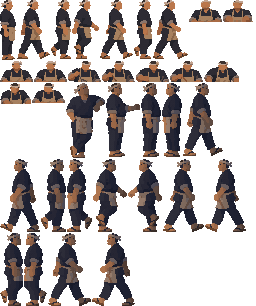
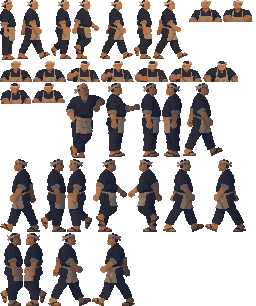
style(street): add detail to the oden master's face
Each feature of the sheet drawing is put back one or two pixels where
it places it (eye, eyebrow, mouth, nose wing, jaw beard), the same in
all images of a pose so nothing jumps. At the door (11 px head): one
pixel per eye, a two-pixel smile in the rain, one pixel of eyebrow.

Changed region(s): [[0.0, 0.2059, 0.9375, 0.2941]]

diff --git a/assets/street.js b/assets/street.js
@@ -6545,8 +6545,8 @@
   // (standing, then leaning on the frame, three quarters, his face up, then standing), steps back, slides it shut and goes
   // back. Drawn a scene pixel at a time (crisp), on the glass only (its lattice and the window's mullion before him), the
   // leaf's wooden half before his legs; the street's night multiply on him as on the room. Reduced motion: he never comes
-  const OMF = {"A":{"stand":[0,0,16,60,6,59],"w1":[17,0,33,59,14,58],"w2":[51,0,20,59,11,58],"w3":[72,0,27,59,11,58],"w4":[100,0,33,59,15,58],"w5":[134,0,18,59,9,58],"w6":[153,0,35,59,15,58],"laugh":[189,0,33,22,16,60],"offer":[223,0,30,22,14,60],"happy":[0,61,33,21,16,59],"idle":[34,61,33,21,16,59],"ladle":[68,61,33,21,17,59],"lift":[102,61,33,21,16,59],"pick":[136,61,33,21,17,59],"serve":[170,61,33,21,17,59],"wipe":[204,61,35,21,18,59],"wipe2":[0,83,31,21,14,59],"nod":[32,83,33,20,16,58],"z":47.1,"floor":659.59,"from":411.97,"at":473.42,"v":29.72},"D":{"stand2":[66,83,39,75,14,74],"grab":[106,83,34,74,8,73],"stand":[141,83,20,74,8,73],"stand_m":[162,83,20,74,11,73],"w1":[183,83,40,73,17,72],"w1_m":[0,159,40,73,22,72],"w2":[41,159,25,73,14,72],"w2_m":[67,159,25,73,10,72],"w3":[93,159,34,73,14,72],"w3_m":[128,159,34,73,19,72],"w4":[163,159,41,73,19,72],"w4_m":[205,159,41,73,21,72],"w5":[0,233,23,73,12,72],"w5_m":[24,233,23,73,10,72],"w6":[48,233,43,73,19,72],"w6_m":[92,233,43,73,23,72],"z":38.2,"floor":669.97,"from":391.12,"at":431.46,"look":445.29,"v":36.65},"step":0.17,"walk":["w1","w2","w3","w4","w5","w6"]};
-  const ODI = new Image(), OMI = new Image(); ODI.src = 'assets/oden_door.webp?v=2'; OMI.src = 'assets/oden_master.webp?v=3';
+  const OMF = {"A":{"stand":[0,0,16,60,6,59],"w1":[17,0,33,59,14,58],"w2":[51,0,20,59,11,58],"w3":[72,0,27,59,11,58],"w4":[100,0,33,59,15,58],"w5":[134,0,18,59,9,58],"w6":[153,0,35,59,15,58],"laugh":[189,0,33,22,16,60],"offer":[223,0,30,22,14,60],"happy":[0,61,32,21,15,59],"idle":[33,61,33,21,16,59],"ladle":[67,61,33,21,17,59],"lift":[101,61,33,21,16,59],"pick":[135,61,33,21,17,59],"serve":[169,61,33,21,17,59],"wipe":[203,61,35,21,18,59],"wipe2":[0,83,31,21,14,59],"nod":[32,83,33,20,16,58],"z":47.1,"floor":659.59,"from":411.97,"at":473.42,"v":29.72},"D":{"stand2":[66,83,39,75,14,74],"grab":[106,83,34,74,8,73],"stand":[141,83,20,74,8,73],"stand_m":[162,83,20,74,11,73],"w1":[183,83,40,73,17,72],"w1_m":[0,159,40,73,22,72],"w2":[41,159,25,73,14,72],"w2_m":[67,159,25,73,10,72],"w3":[93,159,34,73,14,72],"w3_m":[128,159,34,73,19,72],"w4":[163,159,41,73,19,72],"w4_m":[205,159,41,73,21,72],"w5":[0,233,23,73,12,72],"w5_m":[24,233,23,73,10,72],"w6":[48,233,43,73,19,72],"w6_m":[92,233,43,73,23,72],"z":38.2,"floor":669.97,"from":391.12,"at":431.46,"look":445.29,"v":36.65},"step":0.17,"walk":["w1","w2","w3","w4","w5","w6"]};
+  const ODI = new Image(), OMI = new Image(); ODI.src = 'assets/oden_door.webp?v=2'; OMI.src = 'assets/oden_master.webp?v=4';
   const ODOOR = (function () {                   // (drawn in one canvas over ODM.box, shown by two: the door's, the window's)
     const mk = (b, show) => {
       const c = document.createElement('canvas'); c.width = b[2]; c.height = b[3];

diff --git a/tools/oden_master.py b/tools/oden_master.py
@@ -33,11 +33,16 @@ qui penche ne le fait pas descendre). Ce qui est sous CUT de haut s'en va (le co
 le verre, 1,40 m au plus bas) ; ce qu'il tient reste (les baguettes, le daikon, la louche, l'assiette).
 
 L'image découpée : ce qui s'écarte du blanc (le halo clair du bord dehors), ses trous bouchés, la plus grande pièce ; sa
-couleur prise sur le dedans (deux pixels de la planche sous le bord : pas de liseré blanc). Le visage : sous 10 px de tête
-aucun trait, de 10 à 15 un pixel par œil (les règles du grain de la maison) ; tout ce qui n'est pas de la peau dans le visage
-(les yeux, les sourcils, la barbe jusqu'au bord du menton, la bouche) y est repeint de la peau voisine, et à la porte (sa tête
-de 11 px) un pixel sombre à la place de chaque œil (eyes_of). Les plis sombres des mains plus petits qu'un pixel de la rue (les
-doigts d'un poing) : repeints de leur peau (no_specks), ce seraient des trous.
+couleur prise sur le dedans (deux pixels de la planche sous le bord : pas de liseré blanc). Le visage : tout ce qui, dans la
+peau du visage, n'en est pas (les yeux, les sourcils, la barbe jusqu'au bord du menton, la bouche ; de face, les cheveux des
+tempes sous le bandeau, qui d'un seul côté se liraient comme un œil) est repeint de la peau voisine, puis chaque trait du dessin
+(traits : son œil, son sourcil, sa bouche, l'aile de son nez, la barbe de sa mâchoire) remis d'un ou deux pixels là où la planche
+le met (features), à la même place dans toutes les images d'une même pose (steady : de profil, sous le haut du visage et en
+retrait de son bout ; de face, de part et d'autre de son milieu), dans ses couleurs, un peu plus sombre que la peau où il tombe
+(TONE). À la porte (11 px de tête) : un pixel par œil, une courbe de deux s'il est content (appuyé au cadre, le nez levé), un
+pixel de sourcil sous le bandeau, la bouche (un sourire de deux pixels de trois quarts), l'ombre du nez de son côté sombre, un
+ou deux pixels de barbe sur la mâchoire ; à la marmite (9 px) seulement l'ombre des sourcils sous le bandeau. Les plis sombres
+des mains plus petits qu'un pixel de la rue (les doigts d'un poing) : repeints de leur peau (no_specks), ce seraient des trous.
 
 Réduction à la taille de chaque place (F / Z px par mètre) : chaque pixel prend la part de la planche qu'il couvre (une
 boîte exacte), plein dès la moitié couverte (ni halo ni bord flou) ; sa couleur, la moyenne des pixels de la planche les plus
@@ -100,7 +105,6 @@ ROWS = {'e': (((0, 550), ('stand', 'grab', 'stand2'), 1.0, 84.0),
 CUT = 1.3                             # (au comptoir : rien de lui sous tant de haut, le comptoir et ce qui est dessus ; la planche met
                                       #  son comptoir à 1,25 m, la maquette à 1 m)
 INK, HALO = 705, 740                  # (la somme R + G + B : sous INK, une image ; sous HALO, la figure ; au-dessus, le blanc et son halo)
-FACE_PX = (10, 15)                    # (une tête de moins de 10 px : aucun trait ; jusqu'à 15 : un pixel par œil)
 
 
 def classes(rgb):
@@ -135,7 +139,7 @@ def frames():
                 seed = nd.binary_dilation(lab[by0:by1, bx0:bx1] == l, iterations=2)
                 m = np.isin(ml, np.unique(ml[seed & m]))
                 m = nd.binary_fill_holes(m)
-                out[name] = dict(sheet=key, rgb=rgb[by0:by1, bx0:bx1].copy(), m=m, x0=bx0, y0=by0, rk=rk, head=head,
+                out[name] = dict(name=name, sheet=key, rgb=rgb[by0:by1, bx0:bx1].copy(), m=m, x0=bx0, y0=by0, rk=rk, head=head,
                                  row0=names[0], frontal=key == 'c')
     return out
 
@@ -183,30 +187,68 @@ def clean(F):
 
 
 def face(f):
-    """le visage sans traits : ce qui, dans la peau du visage, n'en est pas (les yeux, les sourcils, la barbe, la bouche) repeint
-    de la peau la plus proche ; les yeux notés (leurs centres, px de l'image) pour la porte"""
+    """le visage : ce qui, dans la peau du visage, n'en est pas (les yeux, les sourcils, la barbe, la bouche, de face les cheveux
+    des tempes sous le bandeau) repeint de la peau la plus proche ; chaque trait du dessin noté par sa sorte (traits : yeux,
+    sourcils, bouche, nez, mâchoire ; f['fk'] : son numéro sur chaque pixel, f['fkind'] : sa sorte), pour en poser un pixel à sa place"""
     rgb, m = f['rgb'], f['m']
     skin, navy, _ = classes(rgb)
     chin = int(round(f['chin'])) + 2
     hz = np.zeros_like(m); hz[:chin] = True
     sk = biggest(skin & m & hz & nd.binary_erosion(m, iterations=3))      # (la peau du visage : la plus grande pièce de peau sur le menton)
     zone = nd.binary_fill_holes(nd.binary_closing(sk, np.ones((7, 7)), iterations=2)) & m & hz
-    R, B = rgb[..., 0], rgb[..., 2]
-    beard = m & hz & ~skin & ~navy & (R - B > 18) & (rgb @ LUM < 150) & nd.binary_dilation(sk, iterations=4)   # (la barbe au bord du
-    feat = (zone & ~skin) | beard                                                                            #  menton, hors du visage)
+    R, G, B = (rgb[..., c] for c in range(3))
     L = rgb @ LUM
-    lab, n = nd.label(feat & (L < 110), np.ones((3, 3)))
-    eyes = []
-    for i in range(n):
-        c = lab == i + 1; k = int(c.sum())
-        if k < 12: continue
-        ys, xs = np.where(c)
-        eyes.append(dict(y=float(ys.mean()), x=float(xs.mean()), n=k, w=int(xs.max() - xs.min() + 1), h=int(ys.max() - ys.min() + 1),
-                         L=float(L[c].mean())))
-    f['feat'] = eyes
+    beard = m & hz & ~skin & ~navy & (R - B > 18) & (L < 150) & nd.binary_dilation(sk, iterations=4)   # (la barbe au bord du menton,
+    feat = (zone & ~skin) | beard                                                                       #  hors du visage)
+    if f['frontal']:                                                        # (de face, les cheveux des tempes sous le bandeau : à 9 px
+        band = m & hz & (np.abs(R - B) < 30) & (L > 150)                    #  de tête, un point sombre d'un seul côté se lit comme un œil)
+        low = np.where(band.any(0), band.shape[0] - np.argmax(band[::-1], 0), 0)[None, :]
+        xs = np.where(sk.any(0))[0]
+        side = np.zeros_like(m); side[:, max(0, xs.min() - 6):xs.max() + 7] = True
+        feat |= m & hz & side & (L < 110) & (np.abs(R - B) < 30) & (np.arange(m.shape[0])[:, None] >= low) & (low > 0)
+    feat &= ~nd.binary_dilation(navy, iterations=2)
+    f['fk'], f['fkind'] = traits(f, feat, zone, L)
     idx = nd.distance_transform_edt(~sk, return_distances=False, return_indices=True)
     rgb[feat] = rgb[idx[0][feat], idx[1][feat]]
     f['face'] = zone
+
+
+def traits(f, feat, zone, L):
+    """les traits du dessin, chacun d'un seul tenant, rangés par leur place dans le visage (rx de l'arrière ou de la gauche à
+    l'avant ou la droite, ry du haut sous le bandeau au menton ; n, leur taille ramenée à la planche en entier) : un œil, sombre,
+    petit, au milieu du haut ; son sourcil juste au-dessus ; la bouche, large et basse, devant (de profil, de trois quarts) ou au
+    milieu (de face) ; le nez de profil, au bout du visage entre l'œil et la bouche ; la mâchoire, la barbe du bas du visage"""
+    ys, xs = np.where(zone)
+    y0, y1, x0, x1 = ys.min(), ys.max(), xs.min(), xs.max()
+    lab, n = nd.label(feat, np.ones((3, 3)))
+    C = []
+    for i in range(n):
+        c = lab == i + 1
+        yy, xx = np.where(c)
+        C.append(dict(i=i + 1, rx=(xx.mean() - x0) / max(1, x1 - x0), ry=(yy.mean() - y0) / max(1, y1 - y0), n=c.sum() / f['rk'] ** 2,
+                      w=xx.max() - xx.min() + 1, h=yy.max() - yy.min() + 1, L=L[c].mean(), Lq=np.percentile(L[c], 20)))
+    ear = lambda c: c['h'] > 1.3 * c['w'] or (f['frontal'] and abs(c['rx'] - 0.5) > 0.36)
+    cand = [c for c in C if 0.15 <= c['ry'] <= 0.55 and 12 <= c['n'] <= 120 and not ear(c) and c['Lq'] < 95 and (f['frontal'] or c['rx'] > 0.45)]
+    under = lambda a, b: 0.06 < b['ry'] - a['ry'] < 0.3 and abs(b['rx'] - a['rx']) < 0.2          # (b sous a : a est son sourcil)
+    eyes = [c for c in cand if not any(under(c, d) for d in cand if d is not c)]
+    eyes = sorted(eyes, key=lambda c: -c['rx'])[:1] if not f['frontal'] and f['name'] != 'stand2' else sorted(eyes, key=lambda c: -c['n'])[:2]
+                                                                            # (de profil : un œil, le plus avancé ; de face, de trois quarts : deux)
+    kind = {}
+    for e in eyes:
+        kind[e['i']] = 'eye'
+        up = [c for c in C if c['i'] not in kind and under(c, e) and c['Lq'] < 90 and not ear(c)]
+        if up: kind[min(up, key=lambda c: e['ry'] - c['ry'])['i']] = 'brow'
+    fr = (lambda c: abs(c['rx'] - 0.5) < 0.22) if f['frontal'] else (lambda c: c['rx'] > 0.55)
+    mouth = [c for c in C if c['i'] not in kind and 0.45 <= c['ry'] <= 0.85 and c['w'] >= 1.6 * c['h'] and fr(c) and c['n'] >= 6]
+    if mouth: kind[max(mouth, key=lambda c: c['n'])['i']] = 'mouth'
+    if not f['frontal']:
+        nose = [c for c in C if c['i'] not in kind and c['rx'] > 0.88 and 0.45 <= c['ry'] <= 0.68]
+        if nose: kind[max(nose, key=lambda c: c['rx'])['i']] = 'nose'
+    jaw = [c for c in C if c['i'] not in kind and c['ry'] > 0.85 and not ear(c)]
+    if jaw: kind[max(jaw, key=lambda c: c['n'])['i']] = 'jaw'
+    fk = np.zeros(lab.shape, int)
+    for i in kind: fk[lab == i] = i
+    return fk, kind
 
 
 def head(f):
@@ -238,8 +280,8 @@ def head(f):
     f['top'] = chin - (chin - f['top']) * sh
     f['hd'] = (chin - f['top'])
     f['sh'], f['px'] = sh, px
-    for e in f['feat']:                                                     # (les traits notés, là où la tête les a mis)
-        if e['y'] < chin: e['y'], e['x'] = chin - (chin - e['y']) * sh, px + (e['x'] - px) * sh
+    fk = np.zeros_like(f['fk']); fk[:chin][hm] = f['fk'][sy[hm], sx[hm]]; fk[chin:] = f['fk'][chin:]   # (les traits, là où la tête les a mis)
+    f['fk'] = fk * f['m']
 
 
 def boite(A, f, ox, oy, W, H):
@@ -280,8 +322,8 @@ def cell(f, s):
         sel = px[d <= np.median(d)] if len(px) > 3 else px
         rgb[i, j] = sel.mean(0)
         fc[i, j] = f['face'][r0:r1, c0:c1].mean() >= 0.5
-    eyes = [(e['x'] * k + ox, e['y'] * k + oy, e) for e in f['feat']]
-    return np.concatenate([rgb, a[..., None] * 255.0], 2), AX, AY, fc, eyes
+    cov = {i: (kd, boite((f['fk'] == i).astype(float), k, ox, oy, W, H)) for i, kd in sorted(f['fkind'].items())}   # (la part de
+    return np.concatenate([rgb, a[..., None] * 255.0], 2), AX, AY, fc, cov                                            #  chaque trait)
 
 
 # ---- la lumière
@@ -351,36 +393,107 @@ FAMILIES = 16
 P95 = {'A': 128 * 1.15, 'D': 116 * 1.15}   # (la peinture voisine : le verre de la fenêtre allumé, la porte et sa façade ; son p95 + 15 %)
 
 
-def eyes_of(name, f, eyes):
-    """les yeux parmi les traits notés : de profil, le plus avancé des petits traits sombres (le sourcil au-dessus de lui, l'oreille
-    plus grande) ; de trois quarts, les deux petits qui n'ont pas un trait juste dessous (les sourcils)"""
-    small = [(x, y, e) for x, y, e in eyes if 15 <= e['n'] <= 50 and e['h'] <= 8 and e['L'] < 80]
-    small = [(x, y, e) for x, y, e in small if not any(0 < e2['y'] - e['y'] < 14 and abs(e2['x'] - e['x']) < 12 for _, _, e2 in small)]
-    if not small: return []
-    if name == 'stand2': return small[:2]
-    return [max(small, key=lambda t: t[2]['x'])]
+TRAITS = {'A': ('brow',), 'D': ('eye', 'brow', 'mouth', 'nose', 'jaw')}   # (à la marmite, 9 px de tête : l'ombre des sourcils sous le
+                                      #  bandeau ; à la porte, 11 px : les yeux, les sourcils, la bouche, l'ombre du nez, la mâchoire)
+CONTENT = ('stand2', 'happy')         # (content, le nez levé vers la pluie : les yeux plissés et le sourire, deux pixels chacun)
+TONE = {'A': {'brow': 0.8}, 'D': {'eye': 0.42, 'brow': 0.66, 'mouth': (0.72, 0.56, 0.54), 'nose': 0.82, 'jaw': 0.84}}   # (chaque
+                                      #  trait : la famille la plus proche de la couleur du pixel où il tombe, assombrie de tant)
+
+
+def features(f, place, cov, fc):
+    """ses traits à sa taille, chacun là où le dessin de la planche le met (le pixel qui en tient la plus grande part, dans le
+    visage) : un pixel par œil (de profil, pas sur le bord du nez), deux en une courbe s'il est content ; un pixel de sourcil sous le
+    bandeau ; la bouche, deux pixels pour un sourire ; l'ombre du nez (l'aile du nez du dessin) ; un ou deux pixels de barbe sur la
+    mâchoire. Rend [(sorte, x, y)], px de la cellule"""
+    want, content, out, taken = TRAITS[place], f['name'] in CONTENT, [], set()
+    H, W = fc.shape
+    def best(cv):
+        cv = np.where(fc, cv, 0.0)
+        for y, x in taken: cv[y, x] = 0
+        return np.unravel_index(int(np.argmax(cv)), cv.shape) if cv.max() > 0.02 else None
+    def put(kd, y, x):
+        out.append((kd, int(x), int(y))); taken.add((int(y), int(x)))
+    def pair(kd, cv, y, x, nb):                                           # (le second pixel d'une courbe : son voisin le plus couvert)
+        q = [(cv[y + dy, x + dx], y + dy, x + dx) for dy, dx in nb if 0 <= y + dy < H and 0 <= x + dx < W and fc[y + dy, x + dx]
+             and (y + dy, x + dx) not in taken]
+        if q: put(kd, *max(q)[1:])
+    for kind in ('eye', 'brow', 'mouth', 'nose', 'jaw'):
+        if kind not in want: continue
+        for i, (kd, cv) in cov.items():
+            if kd != kind or not (p := best(cv)): continue
+            y, x = p
+            if kind == 'eye' and not f['frontal'] and not content: x, y = inward(x, y, fc)
+            put(kind, y, x)
+            if content and kind in ('eye', 'mouth'):
+                pair(kind, cv, y, x, ((0, -1), (0, 1), (-1, -1), (-1, 1), (1, -1), (1, 1)) if kind == 'eye' else ((0, -1), (0, 1)))
+            if kind == 'mouth' and 'nose' in want and f['name'] == 'stand2':    # (de trois quarts, l'ombre du nez : au-dessus du bout
+                if fc[y - 1, x + 1 + content] and (y - 1, x + 1 + content) not in taken: put('nose', y - 1, x + 1 + content)   # droit du sourire)
+            if kind == 'jaw' and cv[y, x] > 0:
+                q = [(cv[y + dy, x + dx], y + dy, x + dx) for dy, dx in ((0, -1), (0, 1), (-1, 0), (1, 0)) if 0 <= y + dy < H and
+                     0 <= x + dx < W and fc[y + dy, x + dx] and (y + dy, x + dx) not in taken]
+                if q and max(q)[0] >= 0.5 * cv[y, x]: put(kind, *max(q)[1:])
+    return out
+
+
+STEADY = {'D': ('stand', 'grab') + WK}   # (de profil à la porte, la même pose : chaque trait à la même place dans chaque image)
+
+
+def steady(R, names, front):
+    """les traits d'images de même pose à la même place dans chacune (rien ne saute d'une image à l'autre) : pour chaque sorte, la
+    médiane sur le groupe de sa rangée sous le haut du visage et de son écart au bout du visage sur cette rangée (front : de profil,
+    le nez, le plus à droite ; sinon le milieu, les deux sourcils de part et d'autre) ; seulement les sortes que le dessin a dans la
+    moitié au moins des images ; la mâchoire sur deux pixels"""
+    def ref(fc, y):
+        xs = np.where(fc[y])[0]
+        return xs.max() if front else (xs.min() + xs.max()) / 2
+    top = {n: np.where(R[n]['fc'].any(1))[0][0] for n in names}
+    off = {}
+    for n in names:
+        fc = R[n]['fc']
+        for kd, x, y in R[n]['ft']:
+            off.setdefault(kd, []).append((y - top[n], ref(fc, y) - x if front else abs(x - ref(fc, y)), n))
+    med = {kd: [int(round(np.median([v[0] for v in L]))), int(round(np.median([v[1] for v in L])))] for kd, L in off.items()
+           if len({v[2] for v in L}) >= len(names) / 3}
+    if front:                                                               # (de profil, dans l'ordre du visage, une rangée entre l'œil,
+        for a, b, gap in (('eye', 'nose', 2), ('nose', 'mouth', 2), ('mouth', 'jaw', 1)):   # le nez et la bouche ; le nez, la bouche
+            if a in med and b in med: med[b][0] = max(med[b][0], med[a][0] + gap)          # et le sourcil un pixel dans le visage, pas
+        for kd in ('brow', 'nose', 'mouth'):                                               # sur son bord)
+            if kd in med: med[kd][1] = max(med[kd][1], 1)
+    for n in names:
+        fc, has = R[n]['fc'], {kd for kd, _, _ in R[n]['ft']}
+        ft = []
+        for kd, (dy, dx) in med.items():
+            y = top[n] + dy
+            if not (0 <= y < fc.shape[0] and fc[y].any()) or not (front or kd in has): continue
+            xs = [int(ref(fc, y) - dx)] if front else [int(np.floor(ref(fc, y) - dx)), int(np.ceil(ref(fc, y) + dx))]
+            if kd == 'jaw': xs.append(xs[0] - 1)
+            ft += [(kd, x, y) for x in xs if 0 <= x < fc.shape[1] and fc[y, x]]
+        R[n]['ft'] = ft
 
 
 def build(F):
-    """chaque image à chacune de ses places, à sa lumière, son bord ; RGBA, ancre, ses yeux (px de la cellule)"""
+    """chaque image à chacune de ses places, à sa lumière, son bord ; RGBA, ancre, ses traits (px de la cellule)"""
     cells = {}
     for p, Z in (('A', O.Z_M), ('D', Z_D)):
         s = O.F / Z
+        R = {}
+        for n in USE[p]:
+            c, ax, ay, fc, cov = cell(F[n], s)
+            R[n] = dict(c=no_specks(c), ax=ax, ay=ay, fc=fc, ft=features(F[n], p, cov, fc))
+        if p in STEADY: steady(R, STEADY[p], True)
+        steady(R, [n for n in USE[p] if F[n]['frontal']], False)
         for n in USE[p] + tuple(k + '_m' for k in MIRROR.get(p, ())):
             base = n[:-2] if n.endswith('_m') else n
-            c, ax, ay, fc, ey = cell(F[base], s)
-            c = no_specks(c)
-            ey = eyes_of(base, F[base], ey)
+            c, ax, fc, ft = R[base]['c'], R[base]['ax'], R[base]['fc'], R[base]['ft']
             if n.endswith('_m'):
-                c = c[:, ::-1].copy(); fc = fc[:, ::-1]; ax = c.shape[1] - 1 - ax; ey = [(c.shape[1] - x, y, e) for x, y, e in ey]
+                c = c[:, ::-1].copy(); fc = fc[:, ::-1]; ax = c.shape[1] - 1 - ax; ft = [(kd, c.shape[1] - 1 - x, y) for kd, x, y in ft]
             c = no_outline(light(c, p), p)
             a = c[..., 3] > 0
             ys, xs = np.where(a)
             y0, y1, x0, x1 = ys.min(), ys.max() + 1, xs.min(), xs.max() + 1      # (serrée sur lui)
             hd = F[base]['hd'] * s / F[base]['ppm']
             c, fc = c[y0:y1, x0:x1], fc[y0:y1, x0:x1]
-            ey = [inward(int(np.floor(x)) - x0, int(np.floor(y)) - y0, fc) for x, y, e in ey] if FACE_PX[0] <= hd + 0.5 else []
-            cells[(p, n)] = dict(c=c, ax=ax - x0, ay=ay - y0, eyes=ey, face=fc, hd=hd)
+            cells[(p, n)] = dict(c=c, ax=ax - x0, ay=R[base]['ay'] - y0, feats=[(kd, x - x0, y - y0) for kd, x, y in ft], face=fc, hd=hd)
     hc = lambda k: (lambda xs: (xs.min() + xs.max() + 1) / 2)(np.where((k['c'][:int(round(k['hd'])), :, 3] > 0).any(0))[0])
     S, L = cells[('D', 'stand')], cells[('D', 'stand2')]                     # (appuyé au cadre : sa tête là où elle était debout, son
     L['ax'] = int(round(hc(L) - (hc(S) - S['ax'])))                         #  bras sur le mur, derrière le cadre)
@@ -435,8 +548,8 @@ class Atlas:
 
 def grain(img, C, boxes):
     """le grain de la peinture (tools/regrain.py), place par place, toutes ses images ensemble : ses familles, chaque pixel à la
-    sienne, le grain fin baké ancré à ses pieds, ses clairs sous P95 ; puis ses yeux (un pixel sombre : la famille la plus sombre
-    de ses cheveux)"""
+    sienne, le grain fin baké ancré à ses pieds, ses clairs sous P95 ; puis ses traits (TONE : la famille la plus proche du pixel
+    où ils tombent, assombri, et plus sombre que lui : rien qui ne soit déjà dans ses couleurs)"""
     infos = {}
     for p in ('A', 'D'):
         items = []
@@ -449,14 +562,13 @@ def grain(img, C, boxes):
         P = dict(RG.DEF); P.update(families=FAMILIES, p95=round(P95[p], 1))
         infos[p] = RG.regrain_group(items, P, 'oden ' + p)
         base = np.array(infos[p]['base'], float)
-        dark = [b for b in base if abs(b[2] - b[0]) < 0.25 * b.max() + 4] or list(base)
-        eye = np.array(dark[0])
         for (q, n), b in boxes.items():
             if q != p: continue
-            for ex, ey in C[(q, n)]['eyes']:
-                fc = C[(q, n)]['face']
-                if 0 <= ey < fc.shape[0] and 0 <= ex < fc.shape[1] and fc[ey, ex]:
-                    img[b[1] + ey, b[0] + ex, :3] = eye
+            for kd, x, y in C[(q, n)]['feats']:
+                cur = img[b[1] + y, b[0] + x, :3].astype(float)
+                tgt = cur * np.array(TONE[p][kd], float)                    # (la famille la plus proche du pixel assombri, plus
+                ok = [c for c in base if c @ LUM <= cur @ LUM - 6]          #  sombre que lui)
+                if ok: img[b[1] + y, b[0] + x, :3] = min(ok, key=lambda c: ((c - tgt) ** 2).sum())
     return infos
 
 
